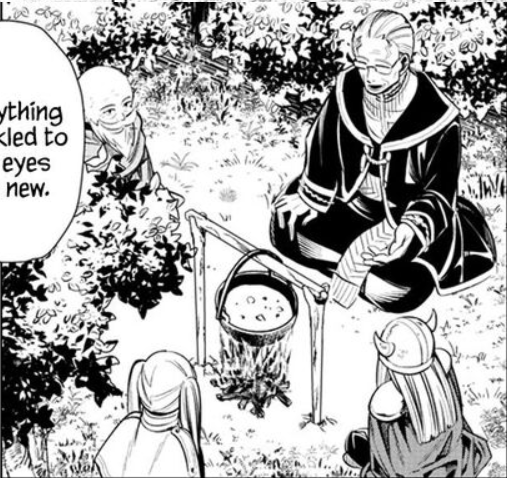
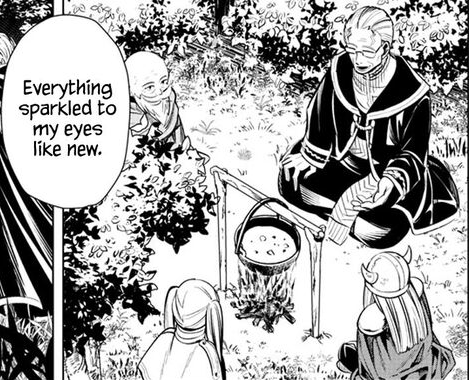
revamped schedule

diff --git a/src/components/ScheduleSection.tsx b/src/components/ScheduleSection.tsx
@@ -19,14 +19,7 @@ interface ScheduleSectionProps {
    - tall: whether it gets extra row height
    We cycle through row templates for any number of items.
 */
-/* Balloon position variants — cycle per panel index */
-const BALLOON_POSITIONS = [
-  { pos: "top-3 left-3",                    tail: "manga-balloon-tail-bl" },
-  { pos: "top-3 right-3",                   tail: "manga-balloon-tail-br" },
-  { pos: "bottom-3 right-3",                tail: "manga-balloon-tail-tr" },
-  { pos: "bottom-3 left-3",                 tail: "manga-balloon-tail-tl" },
-  { pos: "top-1/2 left-3 -translate-y-1/2", tail: "manga-balloon-tail-r"  },
-];
+// Balloons removed — no balloon position variants needed
 
 // Default row templates (fallback)
 const ROW_TEMPLATES = [
@@ -185,43 +178,30 @@ export function ScheduleSection({ config, dict, locale, guestGroup }: ScheduleSe
               >
                 {row.map((panel) => {
                   const isVisible = visiblePanels.has(panel.globalIdx);
-                  const hasImage = !!panel.item.image;
+
+                  // Special-case: localized images for certain panels (dinner, going merry)
+                  const isDinnerPanel = (panel.item as any).time === "04-06-26 @ 18:00";
+                  const isGoingMerryPanel = (panel.item as any).image && (panel.item as any).image.includes("going_merry");
+                  const isHimmelPanel = (panel.item as any).image && (panel.item as any).image.includes("himmel_cutie");
+                  const isManga1Panel = (panel.item as any).image && (panel.item as any).image.includes("manga1");
+                  const LOCALE_MAP: Record<string, string> = { en: "EN", pt: "PT", el: "GR" };
+                  let imageSrc: string | undefined = (panel.item as any).image;
+                  if (isDinnerPanel) {
+                    const suf = LOCALE_MAP[locale] ?? "EN";
+                    imageSrc = `/images/schedule/panel_1_${suf}.png`;
+                  } else if (isGoingMerryPanel) {
+                    const suf = LOCALE_MAP[locale] ?? "EN";
+                    imageSrc = `/images/schedule/goingmerry_${suf}.png`;
+                  } else if (isHimmelPanel) {
+                    const suf = LOCALE_MAP[locale] ?? "EN";
+                    imageSrc = `/images/schedule/panel_3_${suf}.png`;
+                  } else if (isManga1Panel) {
+                    const suf = LOCALE_MAP[locale] ?? "EN";
+                    imageSrc = `/images/schedule/brunch_${suf}.png`;
+                  }
+                  const hasImage = !!imageSrc;
                   const isWide = panel.span >= 4;
                   const isFull = panel.span === 6;
-                  const defaultBalloon = BALLOON_POSITIONS[panel.globalIdx % BALLOON_POSITIONS.length];
-                  const itemBalloon = (panel.item as any).balloon;
-
-                  // balloon.type: 'balloon' (default) | 'none' | 'square'
-                  const balloonType: "balloon" | "none" | "square" = (itemBalloon?.type as any) ?? (itemBalloon?.hide ? "none" : "balloon");
-
-                  // If explicit top/left/right/bottom provided in style, prefer inline positioning
-                  const hasExplicitPositionStyle = Boolean(itemBalloon && (itemBalloon.style?.top || itemBalloon.style?.left || itemBalloon.style?.right || itemBalloon.style?.bottom));
-                  const usePosClass = !hasExplicitPositionStyle;
-                  const posClass = usePosClass ? (itemBalloon?.pos ?? defaultBalloon.pos) : "";
-
-                  // Tail only applies to normal 'balloon' type
-                  const tailClass = balloonType === "balloon" ? (itemBalloon?.tail ?? defaultBalloon.tail) : "";
-
-                  // Support either a Tailwind max-width class (eg. "max-w-[58%]")
-                  // or a raw CSS max width value like "40%"/"240px". Raw values are applied inline.
-                  const rawMaxWidth = itemBalloon?.maxWidth;
-                  let maxWidthClass: string | undefined = undefined;
-                  let maxWidthStyle: Record<string, any> | undefined = undefined;
-                  if (rawMaxWidth) {
-                    if (typeof rawMaxWidth === "string" && (rawMaxWidth.includes("%") || rawMaxWidth.endsWith("px") || rawMaxWidth.endsWith("rem") || rawMaxWidth.endsWith("em"))) {
-                      maxWidthStyle = { maxWidth: rawMaxWidth };
-                    } else {
-                      maxWidthClass = rawMaxWidth as string;
-                    }
-                  }
-                  if (!maxWidthClass && !maxWidthStyle) maxWidthClass = "max-w-[58%]";
-
-                  const balloonInlineStyleRaw = itemBalloon?.style ? (itemBalloon.style as any) : {};
-                  const balloonInlineStyle = { fontFamily: "var(--font-manga)", ...(balloonInlineStyleRaw || {}), ...(maxWidthStyle || {}) };
-                  const finalBalloonStyle = hasExplicitPositionStyle
-                    ? { position: "absolute", zIndex: 10, ...balloonInlineStyle }
-                    : balloonInlineStyle;
-                  const showLocation = itemBalloon?.showLocation !== false;
                   const panelInlineStyle = (panel.item as any).panel?.style ? ((panel.item as any).panel.style as any) : undefined;
 
                   return (
@@ -240,115 +220,15 @@ export function ScheduleSection({ config, dict, locale, guestGroup }: ScheduleSe
                       {/* ── Background image ──────────── */}
                       {hasImage && (
                         <Image
-                          src={panel.item.image!}
+                          src={imageSrc!}
                           alt={getLocalizedValue(panel.item.title, locale)}
                           fill
                           sizes={isFull ? "100vw" : isWide ? "66vw" : "33vw"}
-                          className="object-cover pointer-events-none manga-panel-img"
+                          className={`${isDinnerPanel ? "object-left" : (isHimmelPanel || isManga1Panel) ? "object-center" : "object-cover"} pointer-events-none manga-panel-img`}
                         />
                       )}
 
-                      {/* ── Floating speech balloon / square / none ──────── */}
-                      {balloonType === "none" ? (
-                        // Just floating text (no box, no border, no shadow, no backdrop)
-                        <div
-                          className={`${usePosClass ? `absolute z-10 ${posClass}` : ""} ${maxWidthClass ?? ""}`}
-                          style={{
-                            ...finalBalloonStyle,
-                            background: "transparent",
-                            boxShadow: "none",
-                            border: "none",
-                            backdropFilter: "none",
-                            WebkitBackdropFilter: "none",
-                          }}
-                        >
-                          <p className="text-[0.68rem] leading-snug text-ink" style={{ fontFamily: "var(--font-manga)" }}>
-                            <span className="text-vermillion font-bold">{panel.item.time}</span>
-                            {" — "}{getLocalizedValue(panel.item.title, locale)}
-                          </p>
-                          {showLocation && panel.item.location && (
-                            <p className="mt-1 text-[0.62rem] leading-snug text-ink/70" style={{ fontFamily: "var(--font-manga)" }}>
-                              <a href={panel.item.location.url} target="_blank" rel="noopener noreferrer" className="inline-flex items-center gap-2 underline">
-                                <svg xmlns="http://www.w3.org/2000/svg" viewBox="0 0 24 24" fill="none" stroke="currentColor" strokeWidth={1.5} className="w-3 h-3 text-vermillion" aria-hidden>
-                                  <path strokeLinecap="round" strokeLinejoin="round" d="M12 11.5a2.5 2.5 0 1 0 0-5 2.5 2.5 0 0 0 0 5z" />
-                                  <path strokeLinecap="round" strokeLinejoin="round" d="M12 22s8-4.5 8-11a8 8 0 1 0-16 0c0 6.5 8 11 8 11z" />
-                                </svg>
-                                {getLocalizedValue(panel.item.location.name, locale)}
-                              </a>
-                            </p>
-                          )}
-                        </div>
-                      ) : balloonType === "square" ? (
-                        // Solid square box with full opacity
-                        <div
-                          className={`${usePosClass ? `absolute z-10 ${posClass}` : ""} ${maxWidthClass ?? ""} bg-cream p-2 rounded-md shadow-sm`}
-                          style={finalBalloonStyle}
-                        >
-                          <p className="text-[0.68rem] leading-snug text-ink" style={{ fontFamily: "var(--font-manga)" }}>
-                            <span className="text-vermillion font-bold">{panel.item.time}</span>
-                            {" — "}{getLocalizedValue(panel.item.title, locale)}
-                          </p>
-                          {showLocation && panel.item.location && (
-                            <p className="mt-1 text-[0.62rem] leading-snug text-ink/70" style={{ fontFamily: "var(--font-manga)" }}>
-                              <a href={panel.item.location.url} target="_blank" rel="noopener noreferrer" className="inline-flex items-center gap-2 underline">
-                                <svg xmlns="http://www.w3.org/2000/svg" viewBox="0 0 24 24" fill="none" stroke="currentColor" strokeWidth={1.5} className="w-3 h-3 text-vermillion" aria-hidden>
-                                  <path strokeLinecap="round" strokeLinejoin="round" d="M12 11.5a2.5 2.5 0 1 0 0-5 2.5 2.5 0 0 0 0 5z" />
-                                  <path strokeLinecap="round" strokeLinejoin="round" d="M12 22s8-4.5 8-11a8 8 0 1 0-16 0c0 6.5 8 11 8 11z" />
-                                </svg>
-                                {getLocalizedValue(panel.item.location.name, locale)}
-                              </a>
-                            </p>
-                          )}
-                          {panel.item.description && (
-                            <div className="mt-2 text-[0.62rem] leading-snug text-ink/80" style={{ fontFamily: "var(--font-manga)" }}>
-                              {getLocalizedValue(panel.item.description, locale)}
-                            </div>
-                          )}
-                        </div>
-                      ) : (
-                        // Default: balloon with tail and semi-transparent background
-                        <div
-                          className={`${["absolute z-10", maxWidthClass, "manga-balloon", posClass, tailClass].filter(Boolean).join(" ")}`}
-                          style={finalBalloonStyle}
-                        >
-                          <p className="text-[0.68rem] leading-snug text-ink" style={{ fontFamily: "var(--font-manga)" }}>
-                            <span className="text-vermillion font-bold">{panel.item.time}</span>
-                            {" — "}{getLocalizedValue(panel.item.title, locale)}
-                          </p>
-                          {panel.item.location && (
-                            <p className="mt-1 text-[0.62rem] leading-snug text-ink/70" style={{ fontFamily: "var(--font-manga)" }}>
-                              <a
-                                href={panel.item.location.url}
-                                target="_blank"
-                                rel="noopener noreferrer"
-                                className="inline-flex items-center gap-2 underline"
-                              >
-                                <svg
-                                  xmlns="http://www.w3.org/2000/svg"
-                                  viewBox="0 0 24 24"
-                                  fill="none"
-                                  stroke="currentColor"
-                                  strokeWidth={1.5}
-                                  className="w-3 h-3 text-vermillion"
-                                  aria-hidden
-                                >
-                                  <path strokeLinecap="round" strokeLinejoin="round" d="M12 11.5a2.5 2.5 0 1 0 0-5 2.5 2.5 0 0 0 0 5z" />
-                                  <path strokeLinecap="round" strokeLinejoin="round" d="M12 22s8-4.5 8-11a8 8 0 1 0-16 0c0 6.5 8 11 8 11z" />
-                                </svg>
-                                {getLocalizedValue(panel.item.location.name, locale)}
-                              </a>
-                            </p>
-                          )}
-                          {panel.item.description && (
-                            <div
-                              className="mt-2 text-[0.62rem] leading-snug text-ink/80 bg-cream/80 p-2 rounded-md shadow-sm max-w-[18rem] opacity-0 scale-95 group-hover:opacity-100 group-hover:scale-100 transition-all duration-200"
-                              style={{ fontFamily: "var(--font-manga)" }}
-                            >
-                              {getLocalizedValue(panel.item.description, locale)}
-                            </div>
-                          )}
-                        </div>
-                      )}
+                      {/* Balloons removed — images only */}
                     </div>
                   );
                 })}
